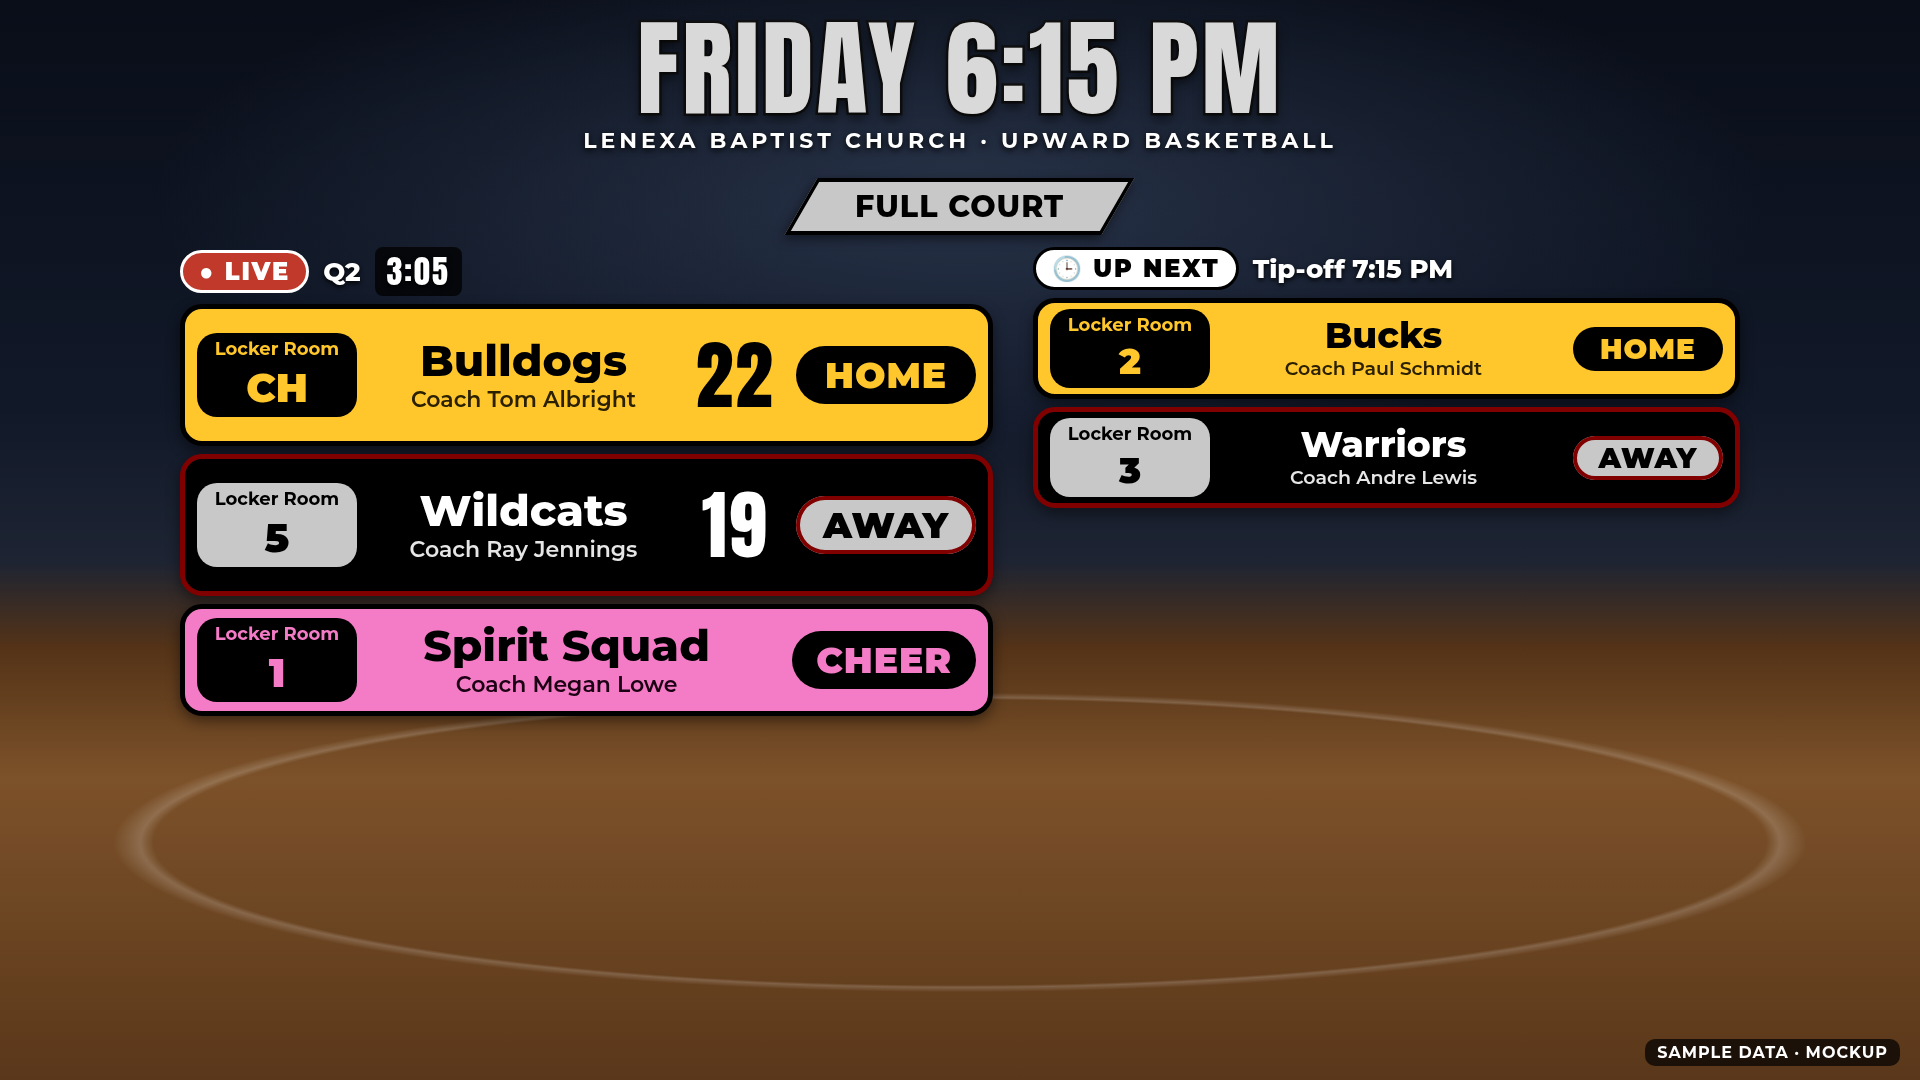
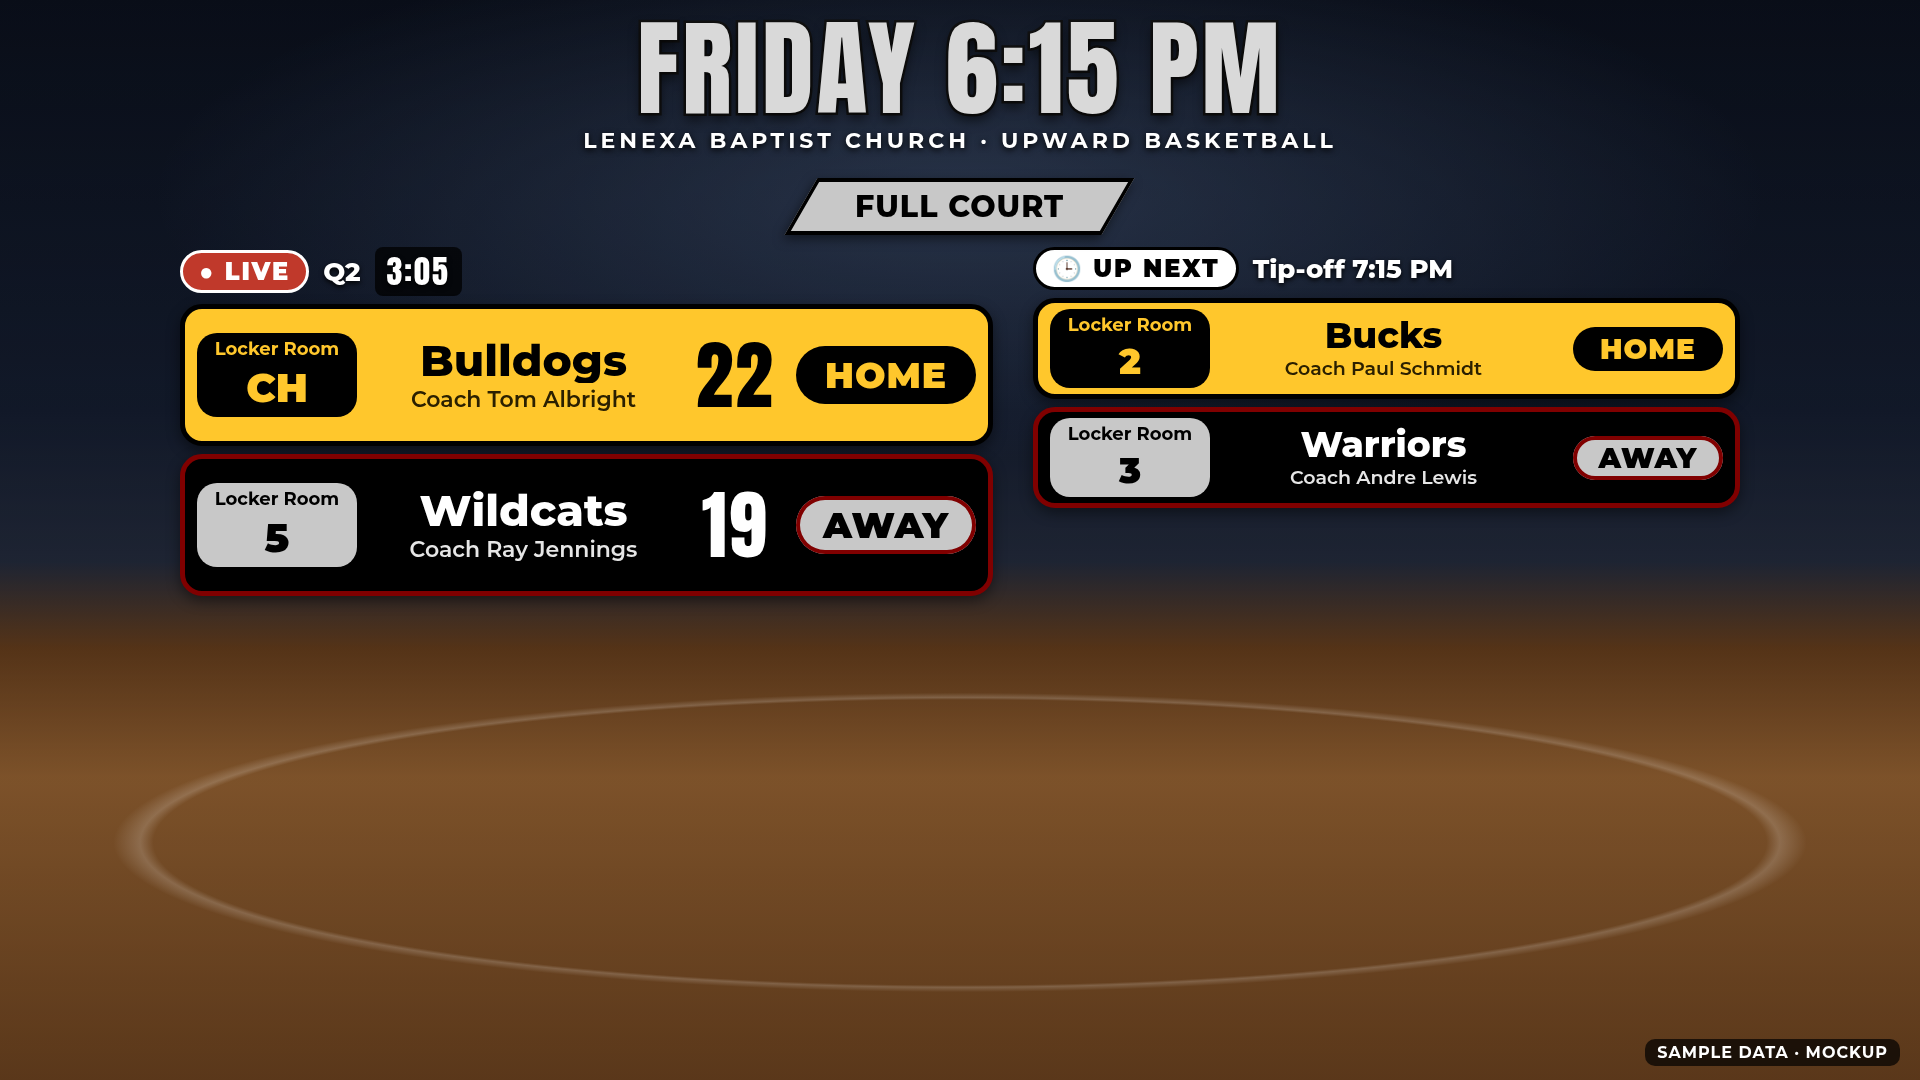
Lobby v2 mockup: Razorbacks locker pill (no empty-pill demo); Friday Full Court without cheer; cheer rule in data-needs.md

Changed region(s): [[0.0938, 0.55, 0.5312, 0.6722]]

diff --git a/deliverables/mockups/lobby-v2/friday-full.html b/deliverables/mockups/lobby-v2/friday-full.html
@@ -6,8 +6,7 @@
 <div class="pair">
 <section class="game live" data-slot="now" data-state="live"><div class="status"><span class="tag live">● LIVE</span><span class="when">Q2</span><span class="clock" data-bind="clock">3:05</span></div><div class="row home" data-row="home"><div class="locker" data-bind="locker"><small>Locker Room</small><b>CH</b></div>
       <div class="who"><div class="name" data-bind="name">Bulldogs</div><div class="coach" data-bind="coach">Coach Tom Albright</div></div><span class="score" data-bind="home-score">22</span><span class="side">HOME</span></div><div class="row away" data-row="away"><div class="locker" data-bind="locker"><small>Locker Room</small><b>5</b></div>
-      <div class="who"><div class="name" data-bind="name">Wildcats</div><div class="coach" data-bind="coach">Coach Ray Jennings</div></div><span class="score" data-bind="away-score">19</span><span class="side">AWAY</span></div><div class="row cheer" data-row="cheer"><div class="locker" data-bind="locker"><small>Locker Room</small><b>1</b></div>
-      <div class="who"><div class="name" data-bind="name">Spirit Squad</div><div class="coach" data-bind="coach">Coach Megan Lowe</div></div><span></span><span class="side">CHEER</span></div></section>
+      <div class="who"><div class="name" data-bind="name">Wildcats</div><div class="coach" data-bind="coach">Coach Ray Jennings</div></div><span class="score" data-bind="away-score">19</span><span class="side">AWAY</span></div></section>
 <section class="game next" data-slot="next" data-state="upcoming"><div class="status"><span class="tag next">🕒 UP NEXT</span><span class="when">Tip-off <span data-bind="time">7:15 PM</span></span></div><div class="row home" data-row="home"><div class="locker" data-bind="locker"><small>Locker Room</small><b>2</b></div>
       <div class="who"><div class="name" data-bind="name">Bucks</div><div class="coach" data-bind="coach">Coach Paul Schmidt</div></div><span></span><span class="side">HOME</span></div><div class="row away" data-row="away"><div class="locker" data-bind="locker"><small>Locker Room</small><b>3</b></div>
       <div class="who"><div class="name" data-bind="name">Warriors</div><div class="coach" data-bind="coach">Coach Andre Lewis</div></div><span></span><span class="side">AWAY</span></div></section>

diff --git a/deliverables/mockups/lobby-v2/saturday-split.html b/deliverables/mockups/lobby-v2/saturday-split.html
@@ -18,6 +18,6 @@
       <div class="who"><div class="name" data-bind="name">Panthers</div><div class="coach" data-bind="coach">Coach Luis Moreno</div></div><span class="score" data-bind="away-score">18</span><span class="side">AWAY</span></div></section>
 <div class="divider"></div>
 <section class="game next" data-slot="next" data-state="upcoming"><div class="status"><span class="tag next">🕒 UP NEXT</span><span class="when">Tip-off <span data-bind="time">12:00 PM</span></span></div><div class="row home" data-row="home"><div class="locker" data-bind="locker"><small>Locker Room</small><b>CH</b></div>
-      <div class="who"><div class="name" data-bind="name">Lady Cardinals</div><div class="coach" data-bind="coach">Coach Amy Fischer</div></div><span></span><span class="side">HOME</span></div><div class="row away" data-row="away"><div class="locker" data-bind="locker" data-empty><small>Locker Room</small><b></b></div>
+      <div class="who"><div class="name" data-bind="name">Lady Cardinals</div><div class="coach" data-bind="coach">Coach Amy Fischer</div></div><span></span><span class="side">HOME</span></div><div class="row away" data-row="away"><div class="locker" data-bind="locker"><small>Locker Room</small><b>4</b></div>
       <div class="who"><div class="name" data-bind="name">Lady Razorbacks</div><div class="coach" data-bind="coach">Coach Kim Haddad</div></div><span></span><span class="side">AWAY</span></div></section>
 </div></main><div class="sample">SAMPLE DATA · MOCKUP</div></body></html>

diff --git a/deliverables/mockups/lobby-v2/data-needs.md b/deliverables/mockups/lobby-v2/data-needs.md
@@ -1,7 +1,11 @@
 # Lobby v2 mockup: data needs (aligned with docs/plans/locker-rooms-coaches.md)
 
-Mockups: `saturday-split.html/.png` (West + East, live + next each; West live has a cheer squad, East doesn't;
-East next has no away locker → hidden pill), `friday-full.html/.png` (one Full Court panel: live with cheer + next).
+Mockups: `saturday-split.html/.png` (West + East, live + next each; West live has a cheer squad, East doesn't),
+`friday-full.html/.png` (one Full Court panel: live + next, no cheer). Every locker pill has a sample value;
+the empty-pill rule (`.locker[data-empty]` → hidden) is in `lobby.css` but not demoed.
+
+**Cheer rule:** cheer squads only appear on 2nd–4th grade Saturday split-court (West/East) games, at most one per game.
+Full Court (Friday) games never show a cheer row.
 Shared style: `lobby.css`. All names are SAMPLE DATA.
 
 ## Fields the mockup uses → Devon's plan
